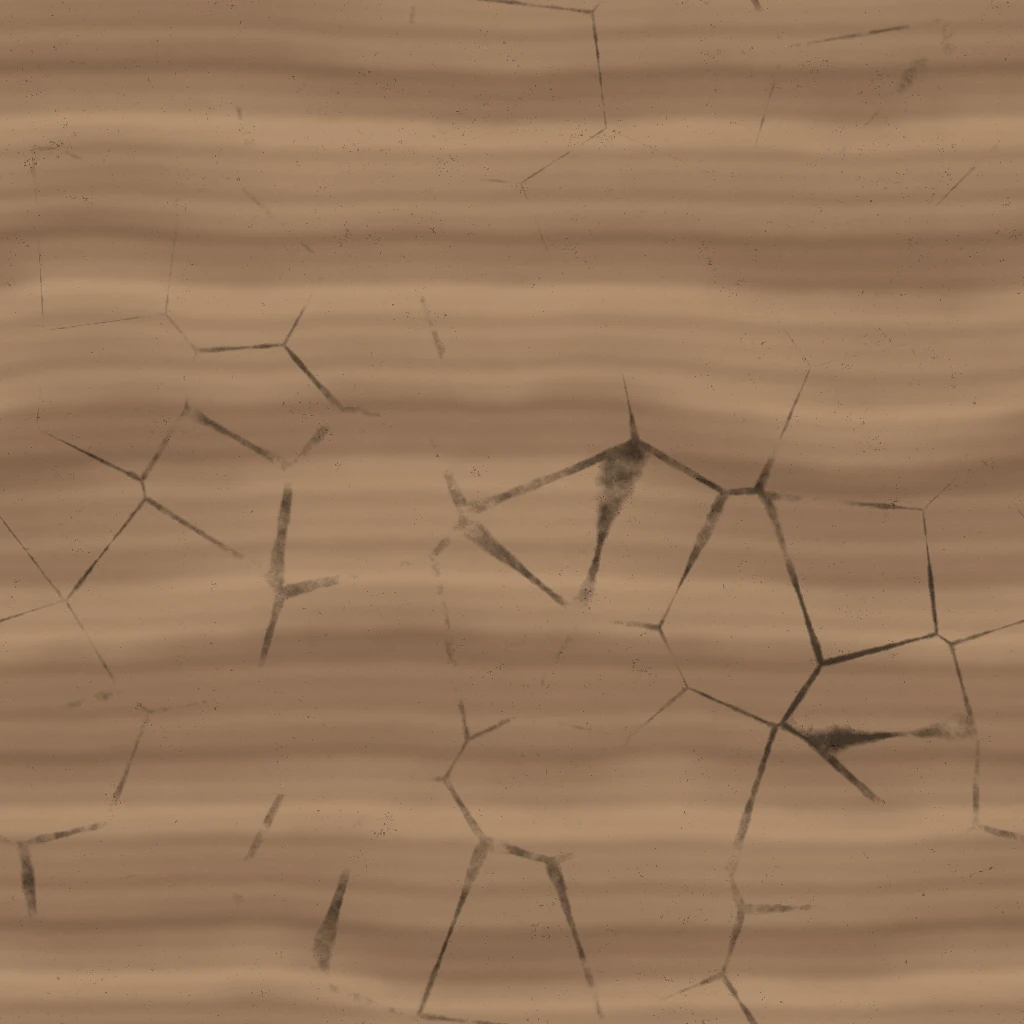
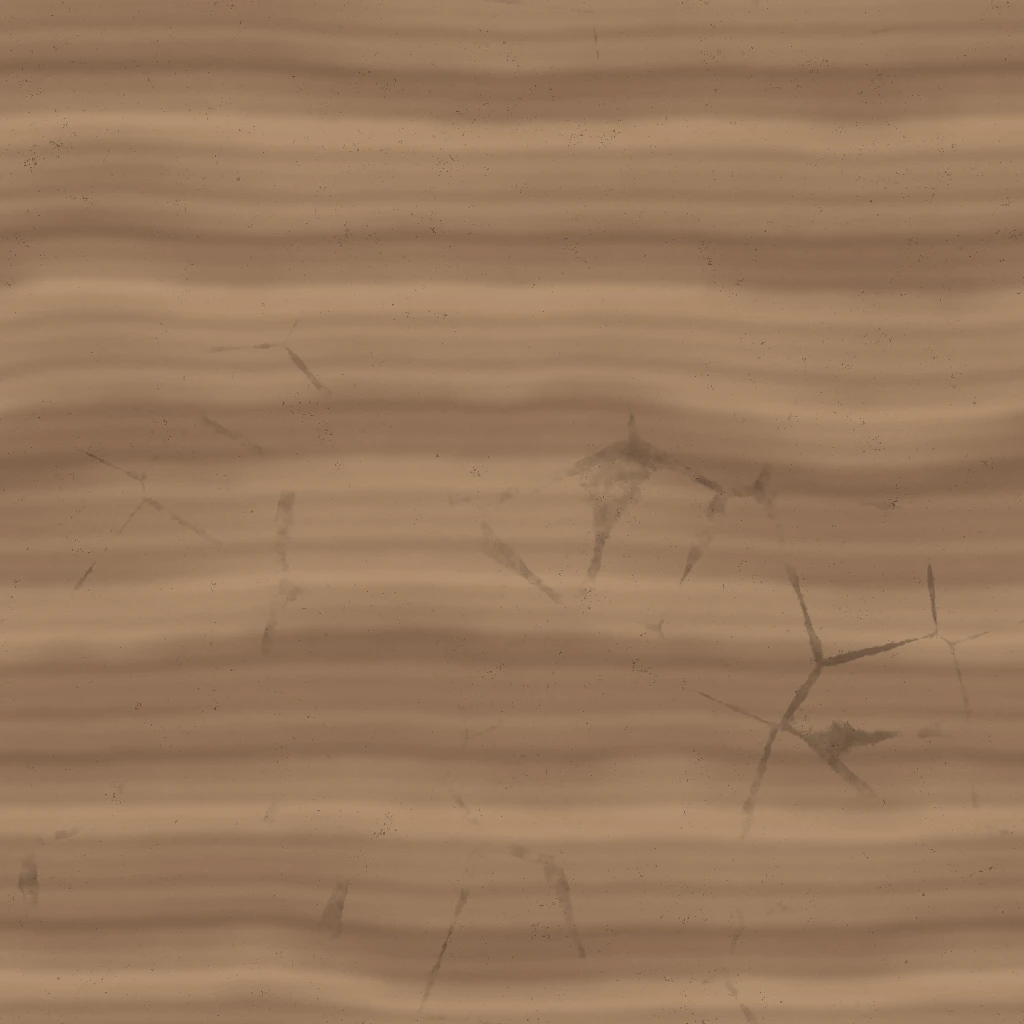
Nothing rests on a cliff; marsh and sandstone tuned; herd shots; status notes

diff --git a/js/gen/land.js b/js/gen/land.js
@@ -56,7 +56,7 @@ const TONES = {
   sandstone: [[0.62, 0.3, 0.16], [0.72, 0.44, 0.24], [0.68, 0.36, 0.3], [0.74, 0.58, 0.36], [0.56, 0.32, 0.34], [0.8, 0.66, 0.5]],
   sand:      [[0.8, 0.66, 0.44], [0.82, 0.56, 0.32], [0.88, 0.8, 0.66], [0.72, 0.46, 0.3], [0.78, 0.7, 0.58]],
   heath:     [[0.42, 0.3, 0.32], [0.46, 0.3, 0.2], [0.34, 0.32, 0.26], [0.38, 0.28, 0.38], [0.5, 0.36, 0.22]],
-  moss:      [[0.26, 0.34, 0.12], [0.18, 0.32, 0.22], [0.36, 0.34, 0.14], [0.2, 0.28, 0.24]],
+  moss:      [[0.26, 0.34, 0.11], [0.22, 0.31, 0.1], [0.36, 0.34, 0.12], [0.26, 0.3, 0.09]],
   litter:    [[0.44, 0.28, 0.08], [0.5, 0.28, 0.06], [0.38, 0.3, 0.09], [0.46, 0.26, 0.05]],
 };
 
@@ -176,7 +176,7 @@ export function shapeLand(planet, x, z, h) {
 // ny: 1 = flat. Worked or graded ground, shores and snow are the caller's to lay over this.
 export function groundAt(planet, x, z, ny, moist, w, col, C = planet.climate) {
   w.fill(0);
-  const tones = landTones(planet), N = planet.noise, patch = 0.5 + 0.5 * N.detail.fbm(x / 21, z / 21, 3), gm = smoothstep(0.25, 0.75, moist), T = { grass: [C.dry[0] + (C.grass[0] - C.dry[0]) * gm, C.dry[1] + (C.grass[1] - C.dry[1]) * gm, C.dry[2] + (C.grass[2] - C.dry[2]) * gm], dirt: C.dry, litter: tones.litter, sand: tones.sand, cracked: [0.86, 0.82, 0.74], moss: tones.moss, peat: [0.22, 0.17, 0.08], ash: [0.2, 0.19, 0.18], heath: tones.heath, gravel: [0.3, 0.29, 0.27], snow: [C.snow, C.snow, C.snow * 1.02] };
+  const tones = landTones(planet), N = planet.noise, patch = 0.5 + 0.5 * N.detail.fbm(x / 21, z / 21, 3), gm = smoothstep(0.25, 0.75, moist), T = { grass: [C.dry[0] + (C.grass[0] - C.dry[0]) * gm, C.dry[1] + (C.grass[1] - C.dry[1]) * gm, C.dry[2] + (C.grass[2] - C.dry[2]) * gm], dirt: C.dry, litter: tones.litter, sand: tones.sand, cracked: [0.86, 0.82, 0.74], moss: tones.moss, peat: [0.2, 0.17, 0.06], ash: [0.2, 0.19, 0.18], heath: tones.heath, gravel: [0.3, 0.29, 0.27], snow: [C.snow, C.snow, C.snow * 1.02] };
   const R = { plain: C.rock, sandstone: tones.sandstone, basalt: [0.13, 0.12, 0.12], granite: [0.29, 0.28, 0.27], pale: [0.6, 0.57, 0.5] };
   let rockTot = 0, r0 = 0, g0 = 0, b0 = 0, s0 = 0, g1 = 0, b1 = 0;
   const lands = landAt(planet, x, z);

diff --git a/js/gen/rocks.js b/js/gen/rocks.js
@@ -19,6 +19,7 @@ export function rockTile(planet, ti, tj) {
     if (s.town > 0.01 || s.road > 0.01 || s.wet > 0.05 || s.h < planet.seaLevel + 1) return;
     if (onSite(planet, x, z) || tracks.some(T => onTrack(T, x, z))) return;
     const e = Math.max(0.8, size * 0.4), hx = surfaceAt(planet, x + e, z).h - s.h, hz = surfaceAt(planet, x, z + e).h - s.h, ny = e / Math.hypot(hx, e, hz);
+    if (ny < 0.62) return;          // nothing rests on a cliff
     const c = mainLand(planet, x, z), shape = sp, tall = shape === 'pillar' ? size * (2 + 2.2 * r(9)) : shape === 'slab' ? size * (0.3 + 0.25 * r(9)) : size * (0.65 + 0.5 * r(9));
     const sink = 0.12 + 0.2 * (1 - ny);     // sat in the ground, not on it
     out.push({ x, z, y: s.h - tall * sink, shape, rock: c.T.rock, moss: c.T.soft.moss || c.T.soft.peat ? 1 : c.kind === 'meadow' || c.kind === 'moor' || c.kind === 'karst' ? 0.3 : 0,

diff --git a/tools/assets/build.py b/tools/assets/build.py
@@ -467,7 +467,7 @@ def mat_sandstone(seed):  # bedded sandstone cliff: many thin strata of differin
     beds = sum(np.sin(2 * math.pi * (y * k + w * q + p)) * e for k, q, p, e in ((5, 0.7, 0.1, 0.5), (11, 0.9, 0.37, 0.3), (23, 1.2, 0.61, 0.2), (47, 1.4, 0.83, 0.12)))
     beds = np.clip(0.5 + 0.5 * beds, 0, 1)
     f1, f2, _ = worley(7, seed + 3); wob = spectral(N, 1.4, seed + 4)
-    joint = np.clip(1 - (f2 - f1 + 0.15 * (wob - 0.5)) * 30, 0, 1) * np.clip((spectral(N, 1.5, seed + 5) - 0.42) * 4, 0, 1)
+    joint = 0.5 * np.clip(1 - (f2 - f1 + 0.3 * (wob - 0.5)) * 42, 0, 1) * np.clip((spectral(N, 1.5, seed + 5) - 0.5) * 4, 0, 1)
     pit = np.clip((spectral(N, 0.7, seed + 6) - 0.74) * 8, 0, 1)
     v = 0.3 + 0.42 * beds + 0.1 * (a - 0.5) + 0.08 * (f - 0.5)
     col = lerp3([0.38, 0.27, 0.2], [0.82, 0.68, 0.53], np.clip(v, 0, 1)) * (1 - 0.55 * joint - 0.3 * pit)[..., None]

diff --git a/docs/STATUS.md b/docs/STATUS.md
@@ -153,3 +153,16 @@ not been measured beyond headless runs (40–120 fps headless).
 
 ## Test browsers
 Every headless browser goes through `tools/guard.mjs` and `tools/guard.sh`: a separate process that stops it if the tool dies, past a time limit, over 7 GB, under 20% machine memory or over 4 GB of swap. Each run logs its peak in `out/guard.log`. Added after a kernel panic on 2026-11-04 with one Chrome helper at 47 GB. Test browsers also run with background-timer throttling off: a fresh headless tab sometimes counted as hidden, and the load crawled for minutes.
+
+## Kinds of land, behaviour of ground, animals, weapons (5 Nov 2026)
+
+| Thing | State |
+|---|---|
+| **Kinds of land** (`gen/land.js`): meadow, forest, boulder field, badlands, dunes, salt pan, marsh, lava, moor, karst. Regions about 1.5 km across, each with its own landform, ground, rock and plants. Which a planet has, how common and what colour comes from its seed | Done |
+| **Ground texture arrays**: terrain blends 16 surfaces per vertex; soft ground from above, rock from three sides | Done |
+| **Rock models** (`gen/rocks.js`, `render/rocks.js`): boulders, slabs, pillars generated per planet, solid to walkers, moss where damp | Done |
+| **Ground behaviour** (`FEEL` in `gen/land.js`): speed, sink, footprints, dust, loose slopes. Dune slip faces carry you down; prints fill in with wind; sand blows off crests; ripples lie across the planet's prevailing wind | Done. **Dunes don't migrate over time**: terrain is a pure function of position |
+| **Animals** (`gen/fauna.js`, `gen/creature.js`, `sim/fauna.js`, `render/fauna.js`): six original body plans, skin generated from soft shapes, planted feet by leg IK, herding, fear, charging when hurt, kills remembered three days, vehicles hit them | Done. No sounds, no feeding or breeding, no predators hunting them. Gliders are only seen circling |
+| **Weapons** (`gen/weapons.js`, `render/weapons.js`): 15, designed per planet from its culture; grip at origin, +z along barrel or blade, `meta.off` for a second hand, `meta.muzzle`/`tip` | Done. Placeholder arms only approximate the second hand until the real character arrives. Shots use a thicker hit for the scatter gun, not separate pellets |
+| **Levelled sites**: airfields, bases and factories stand on graded pads (`padAt` in `gen/outposts.js`) | Done |
+| **Not used yet**: cobble, canvas, carpet textures are baked but on nothing | Open |
